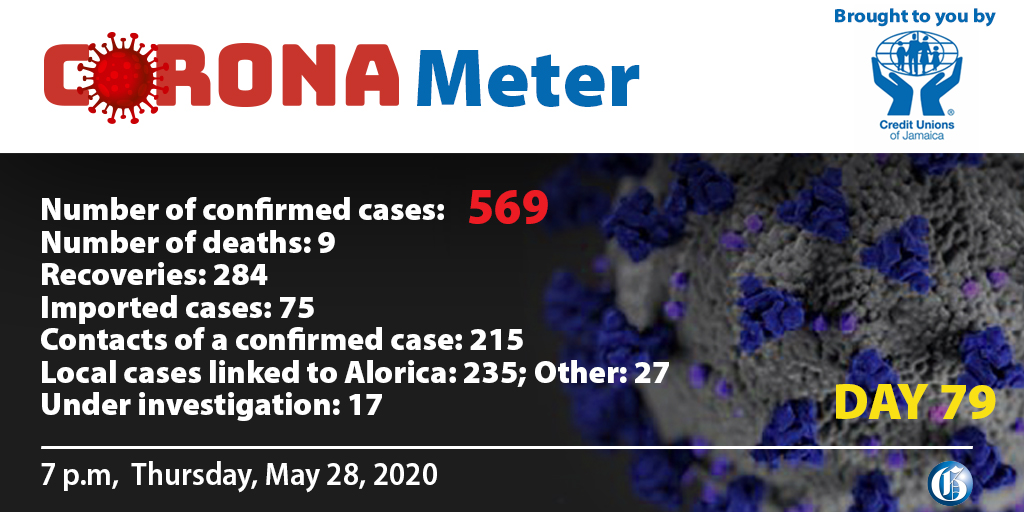
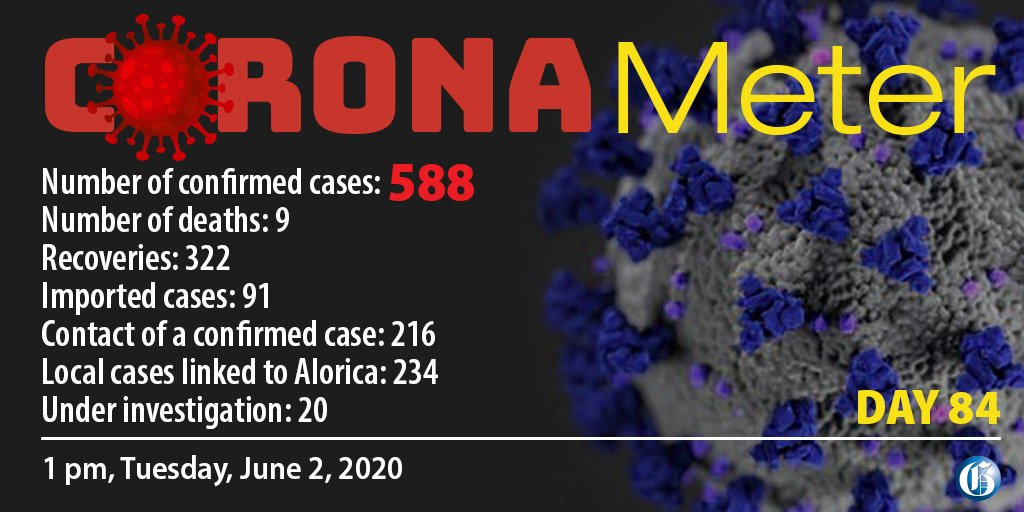
June 2

diff --git a/index.html b/index.html
@@ -134,7 +134,7 @@
           <div class="info-container">
             <p class="info-heading red">
               The Coronavirus is in Jamaica and at this time
-              <span href="#">569</span> persons have contracted the virus.
+              <span href="#">588</span> persons have contracted the virus.
             </p>
 
             <p class="info-heading">
